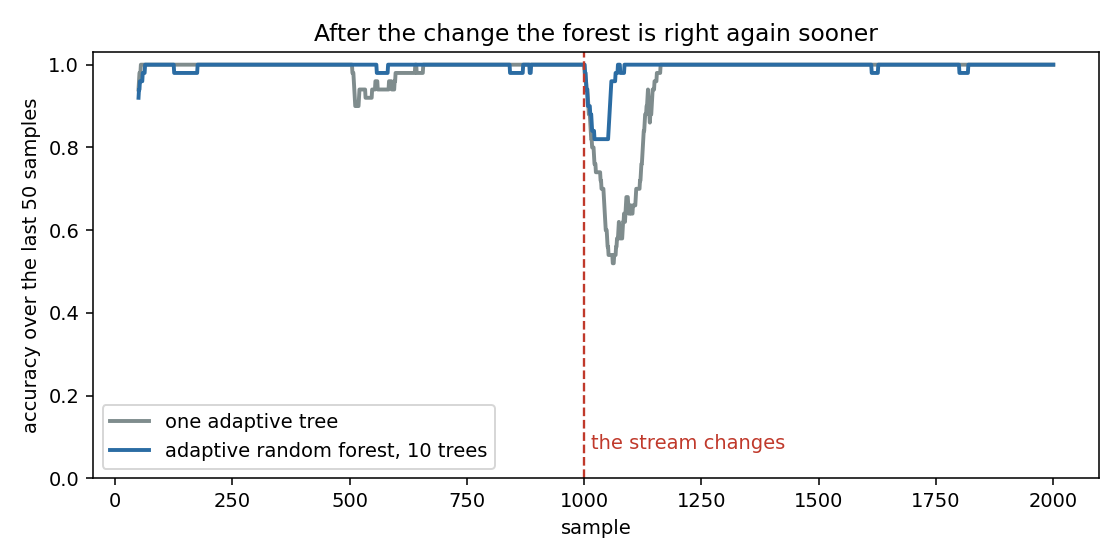
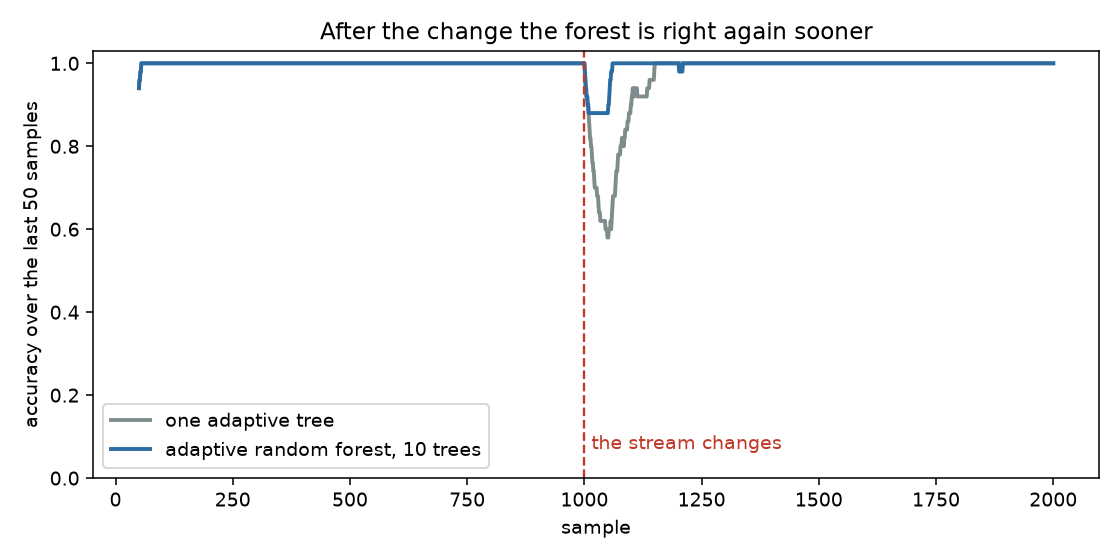
docs(forest): finance examples first, and the stream of the benchmark made to bite
Each class page of the forests starts with a finance example run with the library: the payments whose rule changes (adaptive random forest), the risk of a loan from a credit score (aggregated Mondrian forest) and the cost of an insurance claim (online extra trees). The change of DriftStream does not always make an old rule wrong (it did not on the seeds 0 to 4 for most of them), so the forest benchmarks and the figures now use the first five seeds for which a tree that stops learning at the change is wrong after it (benchmarks/_drift_seeds.py), and the table has that tree as a control row. The numbers, the figures and the text of the Numbers section, of the adaptive forest page and of the OXT page are rewritten from the new runs.

diff --git a/benchmarks/forest_streaming.py b/benchmarks/forest_streaming.py
@@ -1,7 +1,7 @@
 """New forests against the library learners they compete with.
 
 Stream: ``DriftStream`` with one sudden change at half, 2000 samples,
-4 features, seeds 0 to 4, prequential protocol (predict, then learn).
+4 features, the first five seeds for which the change makes a frozen tree wrong (``_drift_seeds.py``), prequential protocol (predict, then learn).
 Reported, median of the seeds: accuracy (or mean squared error of the
 label for the regressors) on the 300 samples before the change, on the
 first 100 after it, on 300 samples starting 200 after it, and the time
@@ -17,6 +17,7 @@ import statistics
 import time
 
 import numpy as np
+from _drift_seeds import drift_seeds
 
 from dense_armor.core.online.drift.adwin import ADWIN
 from dense_armor.core.online.forest import (
@@ -26,6 +27,7 @@ from dense_armor.core.online.forest import (
 )
 from dense_armor.core.online.tree import (
     HoeffdingAdaptiveTreeClassifier,
+    HoeffdingTreeClassifier,
     MondrianForestClassifier,
     MondrianForestRegressor,
 )
@@ -74,9 +76,25 @@ def _run(est, X, y, regression: bool) -> tuple[dict, float]:
     return {k: float(arr[a:b].mean()) for k, (a, b) in WINDOWS.items()}, per_sample
 
 
+def _run_frozen(X, y) -> dict:
+    """A Hoeffding tree that learns until the change and then only predicts: the control."""
+    names = [f"x{i}" for i in range(D)]
+    tree = HoeffdingTreeClassifier(grace_period=50)
+    score = []
+    for i, (xi, yi) in enumerate(zip(X, y)):
+        d = dict(zip(names, map(float, xi)))
+        score.append(float(tree.predict_one(d) == yi))
+        if i < CUT:
+            tree.learn_one(d, int(yi))
+    arr = np.array(score)
+    return {k: float(arr[a:b].mean()) for k, (a, b) in WINDOWS.items()}
+
+
 def main() -> None:
     rows: dict = {}
-    for seed in range(5):
+    seeds = drift_seeds()
+    print("seeds:", seeds)
+    for seed in seeds:
         X, y = DriftStream(
             n_samples=N, n_features=D, n_drifts=1, kind="sudden", seed=seed
         ).data()
@@ -84,6 +102,9 @@ def main() -> None:
         for name, make in facs.items():
             res, dt = _run(make(seed), X, y, "regressor" in name)
             rows.setdefault(name, []).append((res, dt))
+        rows.setdefault("frozen tree (stops at the change)", []).append(
+            (_run_frozen(X, y), 0.0)
+        )
     print(
         f"{'learner':28s} {'before':>8s} {'first100':>9s} {'after+200':>10s} {'ms/sample':>10s}"
     )

diff --git a/benchmarks/_drift_seeds.py b/benchmarks/_drift_seeds.py
@@ -1,0 +1,50 @@
+"""Seeds of ``DriftStream`` for which the change really bites.
+
+The change of a ``DriftStream`` gives the clusters of the new concept a new random direction, and on about
+half of the seeds a classifier fitted before the change stays right after it (the labels alternate, but the
+new direction can put the old rule back on the same side). The benchmarks and the figures of the forests use
+the first seeds for which a Hoeffding tree that learns until the change and then stops has an accuracy
+below ``MAX_ACCURACY`` on the samples after the change. The rule is fixed here, before the numbers of the
+forests are looked at.
+"""
+
+import numpy as np
+
+from dense_armor.core.online.tree import HoeffdingTreeClassifier
+from dense_armor.core.signals.datasets import DriftStream
+
+N, D = 2000, 4
+CUT = N // 2
+MAX_ACCURACY = 0.5
+
+
+def frozen_accuracy(X, y) -> float:
+    """Accuracy after the change of a tree that learns until the change and then stops."""
+    names = [f"x{i}" for i in range(X.shape[1])]
+    tree = HoeffdingTreeClassifier(grace_period=50)
+    hits = []
+    for i, (xi, yi) in enumerate(zip(X, y)):
+        d = dict(zip(names, map(float, xi)))
+        if i < CUT:
+            tree.learn_one(d, int(yi))
+        else:
+            hits.append(float(tree.predict_one(d) == yi))
+    return float(np.mean(hits))
+
+
+def drift_seeds(n: int = 5) -> list:
+    """The first ``n`` seeds whose change makes the frozen tree wrong (accuracy below ``MAX_ACCURACY``)."""
+    seeds = []
+    seed = 0
+    while len(seeds) < n:
+        X, y = DriftStream(
+            n_samples=N, n_features=D, n_drifts=1, kind="sudden", seed=seed
+        ).data()
+        if frozen_accuracy(X, y) < MAX_ACCURACY:
+            seeds.append(seed)
+        seed += 1
+    return seeds
+
+
+if __name__ == "__main__":
+    print(drift_seeds())

diff --git a/benchmarks/oxt_streaming.py b/benchmarks/oxt_streaming.py
@@ -8,7 +8,7 @@ particular DriftStream OXT is slower and slightly less accurate
 than MondrianForest.
 
 Stream: ``DriftStream`` with one sudden change at half, 2000 samples, 4
-features, seeds 0 to 4, label as target, prequential protocol. Reported:
+features, the first five seeds for which the change makes a frozen tree wrong (``_drift_seeds.py``), label as target, prequential protocol. Reported:
 median squared error on the 300 samples before the change, on the first 100
 after it and on 300 samples starting 200 after it, the time per sample, and
 for OXT against each competitor the paired Wilcoxon signed-rank p-value
@@ -22,6 +22,7 @@ import statistics
 import time
 
 import numpy as np
+from _drift_seeds import drift_seeds
 from scipy.stats import wilcoxon
 
 from dense_armor.core.online.forest import OnlineExtraTreesRegressor
@@ -59,7 +60,7 @@ def _a12(a, b):
 
 def main() -> None:
     rows = {k: [] for k in LEARNERS}
-    for seed in range(5):
+    for seed in drift_seeds():
         X, y = DriftStream(
             n_samples=N, n_features=D, n_drifts=1, kind="sudden", seed=seed
         ).data()

diff --git a/docs/assets/forest/make_figure.py b/docs/assets/forest/make_figure.py
@@ -22,6 +22,9 @@ import numpy as np
 ROOT = Path(__file__).resolve().parents[3]
 sys.path.insert(0, str(ROOT))
 
+sys.path.insert(0, str(ROOT / "benchmarks"))
+from _drift_seeds import drift_seeds  # noqa: E402
+
 from dense_armor.core.online.drift.adwin import ADWIN
 from dense_armor.core.online.forest import (
     AdaptiveRandomForestClassifier,
@@ -43,7 +46,7 @@ def _rolling(a: np.ndarray, w: int = 50) -> np.ndarray:
 
 def _run_classifiers() -> tuple:
     arf_acc, hat_acc, events = [], [], None
-    for seed in range(5):
+    for n_seed, seed in enumerate(drift_seeds()):
         X, y = DriftStream(
             n_samples=N, n_features=D, n_drifts=1, kind="sudden", seed=seed
         ).data()
@@ -60,7 +63,7 @@ def _run_classifiers() -> tuple:
             d.append(arf.n_drifts_)
         arf_acc.append(_rolling(np.array(a)))
         hat_acc.append(_rolling(np.array(h)))
-        if seed == 0:
+        if n_seed == 0:
             events = (np.array(w), np.array(d))
     return np.median(arf_acc, axis=0), np.median(hat_acc, axis=0), events
 

diff --git a/docs/assets/forest/make_figure_oxt.py b/docs/assets/forest/make_figure_oxt.py
@@ -2,12 +2,15 @@ import sys
 from pathlib import Path
 
 sys.path.insert(0, str(Path(__file__).resolve().parents[3]))
+sys.path.insert(0, str(Path(__file__).resolve().parents[3] / "benchmarks"))
 
 import matplotlib
 
 matplotlib.use("Agg")
 import matplotlib.pyplot as plt
 import numpy as np
+
+from _drift_seeds import drift_seeds
 
 from dense_armor.core.online.forest import OnlineExtraTreesRegressor
 from dense_armor.core.online.rules import AMRulesRegressor
@@ -24,7 +27,7 @@ LEARNERS = {
 }
 
 curves = {k: [] for k in LEARNERS}
-for seed in range(5):
+for seed in drift_seeds():
     X, y = DriftStream(n_samples=N, n_features=D, n_drifts=1,
                        kind="sudden", seed=seed).data()
     names = [f"x{i}" for i in range(D)]

diff --git a/docs/forest/adaptive_random_forest.md b/docs/forest/adaptive_random_forest.md
@@ -1,5 +1,36 @@
 # AdaptiveRandomForestClassifier: replace the trees that go wrong
 
+## A first example: payments whose rule changes
+
+Half of the payments are fraud. At first a fraud is a large payment (around 400) and a normal one is small (around 60); after 750 payments they swap. A forest of 5 trees predicts each payment before it learns it. The first line is the accuracy on payments 500 to 750, on the 100 payments after the change and on the last 200; the second line is the number of warnings and of drifts that the detectors of the trees raised.
+
+```python
+import numpy as np
+from dense_armor.core.online.forest import AdaptiveRandomForestClassifier
+
+rng = np.random.default_rng(0)
+forest = AdaptiveRandomForestClassifier(n_models=5, seed=1)
+hits = []
+for i in range(1500):
+    fraud = int(rng.random() < 0.5)
+    big = fraud if i < 750 else 1 - fraud
+    amount = float(rng.normal(400 if big else 60, 40 if big else 15))
+    hits.append(forest.predict_one({"amount": amount}) == fraud)
+    forest.learn_one({"amount": amount}, fraud)
+h = np.array(hits, float)
+print(h[500:750].mean().round(3), h[750:850].mean().round(3), h[1300:].mean().round(3))
+print(forest.n_warnings_, forest.n_drifts_)
+```
+
+```
+1.0 0.92 1.0
+14 4
+```
+
+Each tree has two detectors fed with its own mistakes: a warning starts a replacement tree in the background, and a drift puts the replacement in place of the old tree. The accuracy falls a little after the change (to the second number of the first line) and comes back, while the trees that went wrong are replaced.
+
+## How it works
+
 `AdaptiveRandomForestClassifier` is the forest of Gomes and colleagues (2017). It has four ideas, each one simple.
 
 Every tree sees every sample, but with a random weight: a sample counts as many times as a Poisson draw with mean 6, so no two trees train on the same data. Every tree also looks at only a few randomly chosen features when it considers a split, which makes the trees differ from one another. Every tree has two small detectors fed with its own mistakes: a warning detector, which is easy to trigger, and a drift detector, which needs more evidence. A warning starts a second tree in the background that trains on the stream but does not vote. If the drift detector then fires, the background tree takes the place of the old one. Finally the forest votes, and each tree's vote is weighted by its recent accuracy.
@@ -27,19 +58,19 @@ The stream gives class 0 to small `x` for the first 750 samples and then swaps t
 
 ### Following a sudden change
 
-A longer test makes the effect visible. `DriftStream` produces four numbers per sample and changes its rule at sample 1000. The figure shows the accuracy over the last 50 samples, as the median of five seeds, for one adaptive Hoeffding tree and for the forest of ten trees.
+A longer test makes the effect visible. `DriftStream` produces four numbers per sample and changes its rule at sample 1000. The change of this generator does not always make an old rule wrong, so the five seeds are the first ones (2, 3, 6, 10 and 12) for which a tree that learns until the change and then stops is wrong after it, with an accuracy below 0.5 (`benchmarks/_drift_seeds.py`). The figure shows the accuracy over the last 50 samples, as the median of the five seeds, for one adaptive Hoeffding tree and for the forest of ten trees.
 
 ![Accuracy of one adaptive tree and of the forest around a sudden change](../assets/forest/change_recovery.png)
 
-Both fall when the rule changes, and both come back to 1.0. In the median of the five seeds the forest falls less and returns sooner: in the first 100 samples after the change it is right 0.910 of the time and the single tree 0.540. Seed by seed the forest scores 0.90, 0.98, 0.96, 0.91 and 0.84 and the tree 0.12, 1.00, 0.98, 0.53 and 0.54, so the tree is the better one on two seeds and the difference is not significant (see [the numbers](index.md#the-numbers)).
+Both fall when the rule changes and both come back to 1.0. In the median of the five seeds the forest is right 0.94 of the time in the first 100 samples after the change and the single tree 0.74. Seed by seed the forest scores 0.94, 0.93, 0.93, 0.94 and 0.95 and the tree 0.94, 0.76, 0.74, 0.10 and 0.62: the forest is better on four seeds and equal on one, with a paired one-sided Wilcoxon p = 0.062, not below 0.05 (with five seeds the smallest value it can take is 0.031).
 
-The detectors tell the same story from the inside. The next figure counts, for one seed, how many warnings and drifts the ten trees raised.
+The detectors tell the same story from the inside. The next figure counts, for the first seed (2), how many warnings and drifts the ten trees raised.
 
 ![Warnings and drifts raised by the ten trees](../assets/forest/detector_events.png)
 
-Before the change there are two warnings and no drift: a warning alone replaces nothing. At the change the drift line jumps as the trees are replaced one after another. The forest raised 29 warnings and 23 drifts in total on this stream, and a second burst appears between samples 1550 and 1700, when the rule is no longer changing. With the fast detector setting that is the price of reacting quickly: a tree may be replaced without need. Slower detectors, passed as `drift_detector` and `warning_detector`, trade reaction time for fewer false replacements.
+Before the change there is no warning and no drift. After it the ten trees raised 10 warnings and no drift: a warning alone starts a background tree and replaces nothing, so on this seed no tree was replaced. Over the five seeds the totals are 10, 18, 18, 12 and 0 warnings and 0, 0, 7, 3 and 0 drifts; on the last seed the detectors raised nothing and the forest was right on 0.95 of the first 100 samples after the change. Slower detectors, passed as `drift_detector` and `warning_detector`, trade reaction time for fewer false replacements.
 
-The forest costs about 4.3 ms per sample for ten trees against 0.24 ms for the single tree, roughly eighteen times more.
+The forest costs about 0.97 ms per sample for ten trees against 0.11 ms for the single tree, roughly nine times more.
 
 ## The parameters
 

diff --git a/docs/forest/index.md b/docs/forest/index.md
@@ -53,22 +53,25 @@ The three numbers are the accuracy before the change, over the 100 payments afte
 
 ## The numbers
 
-`DriftStream`, one sudden change at half, 2000 samples, four features, median of five seeds, test-then-train. Accuracy (mean squared error of the label for the regressors) on the 300 samples before the change, on the first 100 after it, and on 300 samples starting 200 after it.
+`DriftStream`, one sudden change at half, 2000 samples, four features, test-then-train, median of five seeds. The seeds are the first five (2, 3, 6, 10 and 12) for which a tree that learns until the change and then stops is wrong after it, with an accuracy below 0.5: that tree is the last row of the table, and it shows that the change makes an old rule wrong. Accuracy (mean squared error of the label for the regressors) on the 300 samples before the change, on the first 100 after it, and on 300 samples starting 200 after it.
 
 | learner | before | first 100 | after + 200 | ms per sample |
 |---|---|---|---|---|
-| AdaptiveRandomForestClassifier | 0.993 | 0.910 | 1.000 | 4.31 |
-| HoeffdingAdaptiveTreeClassifier | 1.000 | 0.540 | 1.000 | 0.24 |
-| AggregatedMondrianForestClassifier | 1.000 | 0.980 | 1.000 | 3.78 |
-| MondrianForestClassifier | 1.000 | 0.980 | 1.000 | 1.39 |
-| AggregatedMondrianForestRegressor (MSE) | 0.002 | 0.084 | 0.009 | 3.26 |
-| MondrianForestRegressor (MSE) | 0.000 | 0.029 | 0.001 | 1.41 |
-| OnlineExtraTreesRegressor (MSE) | 0.004 | 0.053 | 0.007 | 7.44 |
-| AMRulesRegressor (MSE) | 0.019 | 0.213 | 0.151 | 0.08 |
+| AdaptiveRandomForestClassifier | 1.000 | 0.940 | 1.000 | 0.97 |
+| HoeffdingAdaptiveTreeClassifier | 1.000 | 0.740 | 1.000 | 0.11 |
+| AggregatedMondrianForestClassifier | 1.000 | 0.930 | 1.000 | 3.87 |
+| MondrianForestClassifier | 1.000 | 0.940 | 1.000 | 1.77 |
+| AggregatedMondrianForestRegressor (MSE) | 0.001 | 0.157 | 0.015 | 3.25 |
+| MondrianForestRegressor (MSE) | 0.000 | 0.046 | 0.003 | 2.06 |
+| OnlineExtraTreesRegressor (MSE) | 0.002 | 0.049 | 0.006 | 1.22 |
+| AMRulesRegressor (MSE) | 0.039 | 0.249 | 0.047 | 0.11 |
+| a tree that stops learning at the change | 1.000 | 0.240 | 0.183 | |
 
-The adaptive random forest has a higher median accuracy than the single adaptive tree in the first 100 samples after the change, but on five seeds the difference is not significant: the forest is better on three seeds and the tree on two (paired Wilcoxon signed-rank, one-sided, p = 0.156; A12 = 0.62, below the 0.71 of a large effect). The forest also has ten trees against one, which is part of the difference. On this stream the aggregated Mondrian forests score the same as or below the Mondrian forests already in the library and cost more per sample; the aggregation also needs a box around the inputs, taken here from the range of the whole stream.
+The rows of the two regressors OXT and AMRules come from `benchmarks/oxt_streaming.py`, which also runs the Mondrian forest regressor (0.000, 0.046, 0.003 and 1.87 ms per sample); the others come from `benchmarks/forest_streaming.py`.
 
-On the same stream OXT scores slightly above the plain Mondrian forest in every window and costs about five times more per sample (7.44 ms against 1.41 ms, twenty trees against ten). Against AMRules the comparison flips: OXT has a lower error after the change (0.053 against 0.213 in the first 100 samples) but is slower (7.44 ms against 0.08 ms). The Mondrian forest has the lower error on all five seeds (A12 = 0.32 for OXT; one-sided paired Wilcoxon with OXT lower, p = 1.000; with five seeds no two-sided p-value can fall below 0.0625). Against AMRules OXT has the lower error on four seeds out of five (p = 0.094, A12 = 0.72), which is not significant at 0.05. The random split is not the winner on this benchmark; its purpose is to remove the split search, and its cost is visible in the millisecond column.
+On the first 100 samples after the change the adaptive random forest is right 0.94 of the time and the single adaptive tree 0.74; on five seeds the forest is better on four and equal on one (paired one-sided Wilcoxon p = 0.062). The forest has ten trees against one, which is part of the difference and of the cost. The aggregated Mondrian classifier scores 0.93 against 0.94 for the Mondrian forest already in the library, and the aggregated regressor has a mean squared error of 0.157 against 0.046 for the Mondrian regressor; both aggregated forests cost more per sample, and the aggregation needs a box around the inputs, taken here from the range of the whole stream.
+
+OXT has a mean squared error of 0.049 in the first 100 samples after the change against 0.046 for the Mondrian forest, at 1.22 ms against 1.87 ms per sample (the OXT forest has twenty trees, the Mondrian one ten). Seed by seed OXT is lower than the Mondrian forest on three seeds of five (one-sided paired Wilcoxon with OXT lower, p = 0.406). Against AMRules OXT is lower on three seeds of five (p = 0.156), and it is slower (1.22 ms against 0.11 ms); AMRules is far off on one seed (2.592 against 0.060). Neither difference is significant at 0.05, and with five seeds no p-value can fall below 0.031 (one-sided). The random split is not the winner on this benchmark; its purpose is to remove the split search.
 
 ### Go or no-go for AMF and OXT
 

diff --git a/docs/forest/aggregated_mondrian_forest.md b/docs/forest/aggregated_mondrian_forest.md
@@ -1,5 +1,33 @@
 # AggregatedMondrianForest: average every depth
 
+## A first example: the risk of a loan from a credit score
+
+A bank rates each applicant with a credit score between 0 and 1. Below 0.4 the risk index of the loan is 0.8, above it 0.3, and every observed index carries a noise of 0.15. The forest sees 500 applicants, one at a time, and is then asked the index for six scores. The first line is the answer of the forest, the weighted average of every depth of its trees; the second is what the deepest leaf alone says.
+
+```python
+import numpy as np
+from dense_armor.core.online.forest import AggregatedMondrianForestRegressor
+
+rng = np.random.default_rng(0)
+f = AggregatedMondrianForestRegressor(n_trees=10, seed=0)
+for _ in range(500):
+    score = float(rng.random())
+    risk = 0.8 if score < 0.4 else 0.3
+    f.learn_one({"score": score}, risk + float(rng.normal(0, 0.15)))
+scores = (0.1, 0.2, 0.39, 0.41, 0.6, 0.9)
+print([round(f.predict_one({"score": s}), 2) for s in scores])
+print([round(f.predict_unaggregated_one({"score": s}), 2) for s in scores])
+```
+
+```
+[0.68, 0.66, 0.51, 0.45, 0.4, 0.35]
+[0.08, 0.36, 0.31, 0.2, 0.18, 0.07]
+```
+
+The true indices are 0.8 for the first three scores and 0.3 for the last three. The answer of the forest is smooth: it is high for low scores and low for high ones, and it spreads the step over the neighbourhood of 0.4 instead of cutting it. The leaf alone follows the noise of the few applicants it has seen and is far from the true values.
+
+## How it works
+
 A tree has to decide how deep to go. A deep tree follows the data closely but memorises noise; a shallow one is steady but misses detail. `AggregatedMondrianForestClassifier` and `AggregatedMondrianForestRegressor` follow Mourtada, Gaiffas and Scornet and skip the decision: the answer is the average of the predictions of every pruning of the tree, each pruning weighted by how well it has predicted up to now. A pruning that has been predicting well counts more; a poor one fades.
 
 There are exponentially many prunings, so the average sounds impossible. The paper shows that with a simple prior, a pruning with `n` nodes starting at weight `2^-n`, the whole sum can be kept as two numbers per node and read along a single path from the leaf to the root. The library implements exactly that, so a prediction costs one walk up the tree.

diff --git a/docs/forest/online_extra_trees.md b/docs/forest/online_extra_trees.md
@@ -1,5 +1,36 @@
 # OnlineExtraTreesRegressor: draw the split at random
 
+## A first example: the cost of an insurance claim
+
+A claim costs 400 more when the amount feature is positive and 100 more when the tenure feature is above 0.5, with a noise of 20; three other features (hour, weekday, channel) have nothing to do with the cost. The forest sees 1500 claims, one at a time, and is asked the cost of three claims, whose true costs are 400, 100 and 500.
+
+```python
+import numpy as np
+from dense_armor.core.online.forest import OnlineExtraTreesRegressor
+
+rng = np.random.default_rng(0)
+forest = OnlineExtraTreesRegressor(n_models=5, seed=0)
+names = ["amount", "tenure", "hour", "weekday", "channel"]
+for _ in range(1500):
+    x = {k: float(rng.uniform(-1.0, 1.0)) for k in names}
+    cost = 400.0 * (x["amount"] > 0.0) + 100.0 * (x["tenure"] > 0.5)
+    forest.learn_one(x, cost + float(rng.normal(0.0, 20.0)))
+rest = {"hour": 0.3, "weekday": -0.2, "channel": 0.9}
+print(round(forest.predict_one({"amount": 0.5, "tenure": 0.0, **rest})))
+print(round(forest.predict_one({"amount": -0.5, "tenure": 0.8, **rest})))
+print(round(forest.predict_one({"amount": 0.5, "tenure": 0.8, **rest})))
+```
+
+```
+394
+93
+409
+```
+
+The three answers are 394, 93 and 409, for true costs of 400, 100 and 500: the first two are close and the third is 91 below the true cost. The forest never searched for a best split: every leaf drew its split point at random in the range of a small buffer of five observations.
+
+## How it works
+
 The random forest and the adaptive random forest ask, for every feature of every leaf,
 where the best split would be. That is a search: every observed `(feature, target)` pair
 is stored, sorted, and scanned. A tree with many leaves, on a stream with many samples,
@@ -44,7 +75,7 @@ per candidate feature.
 ### What the random split costs and buys
 
 The next figure uses the same `DriftStream` of the [adaptive random forest](adaptive_random_forest.md) page, one sudden change at sample
-1000, 2000 samples, four features, median of five seeds. The line is the median
+1000, 2000 samples, four features, median of five seeds. The seeds are those of the adaptive random forest page. The line is the median
 absolute error, smoothed over 50 samples, for OXT, for `MondrianForestRegressor` with
 ten trees, and for `AMRulesRegressor`.
 
